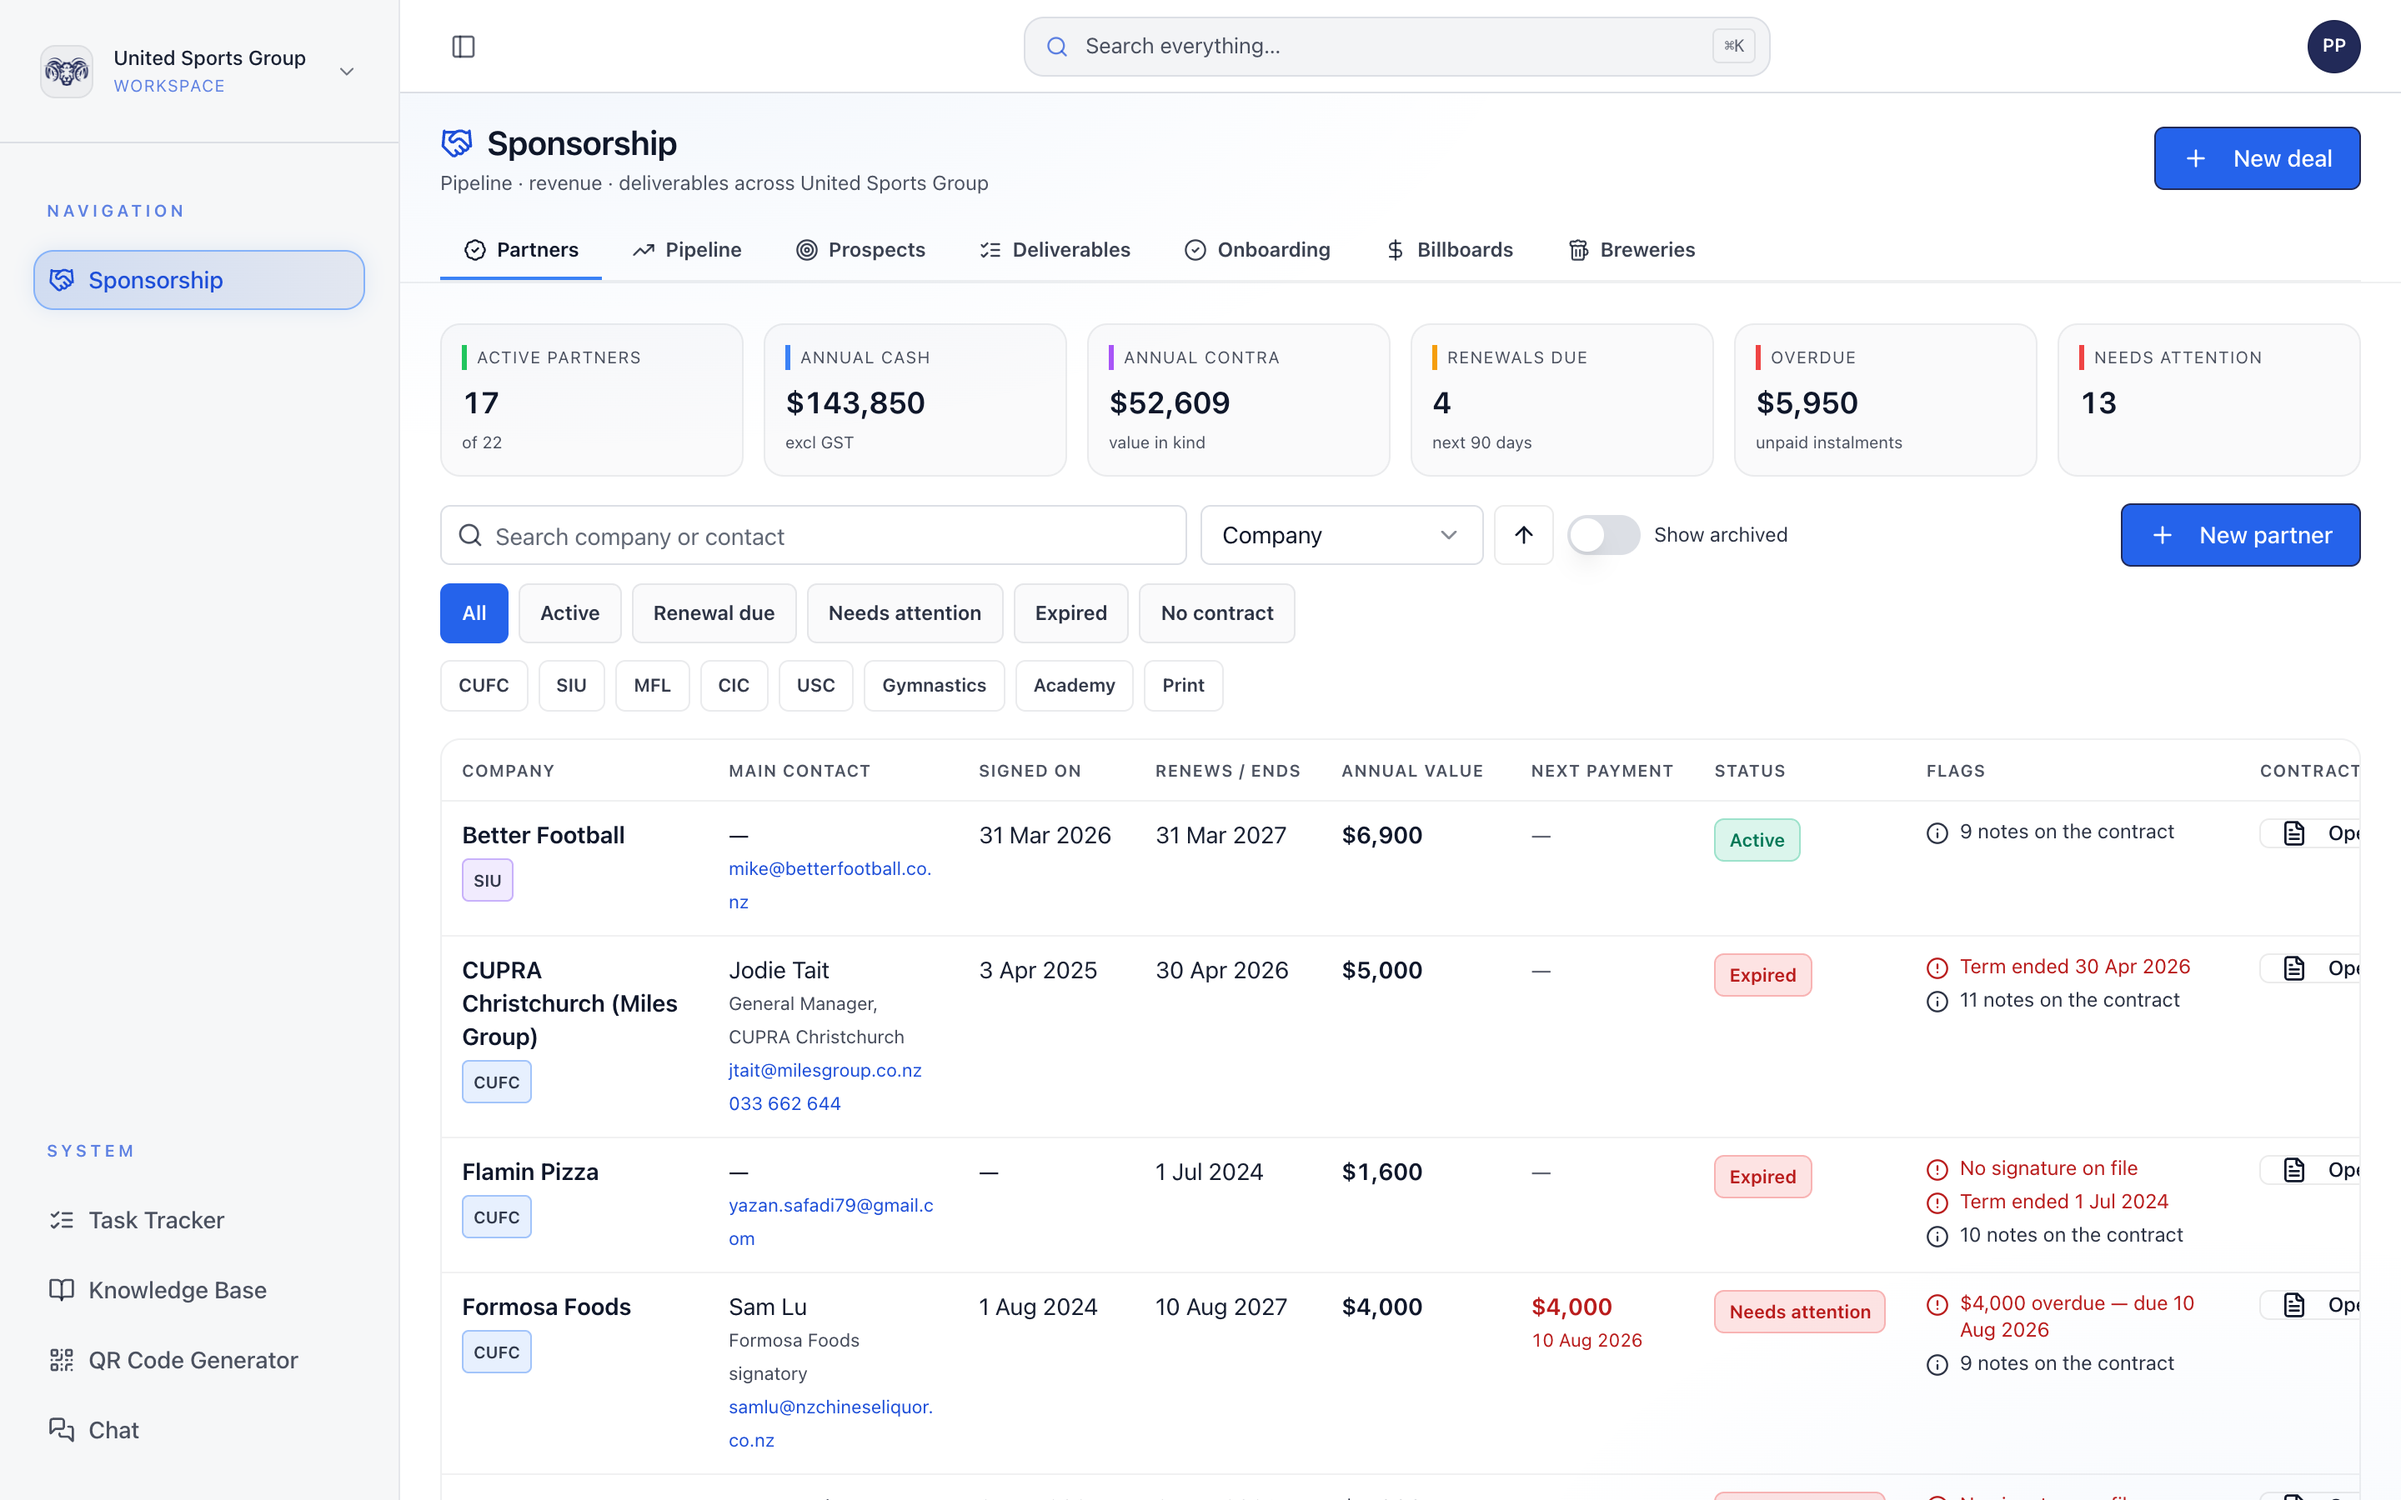
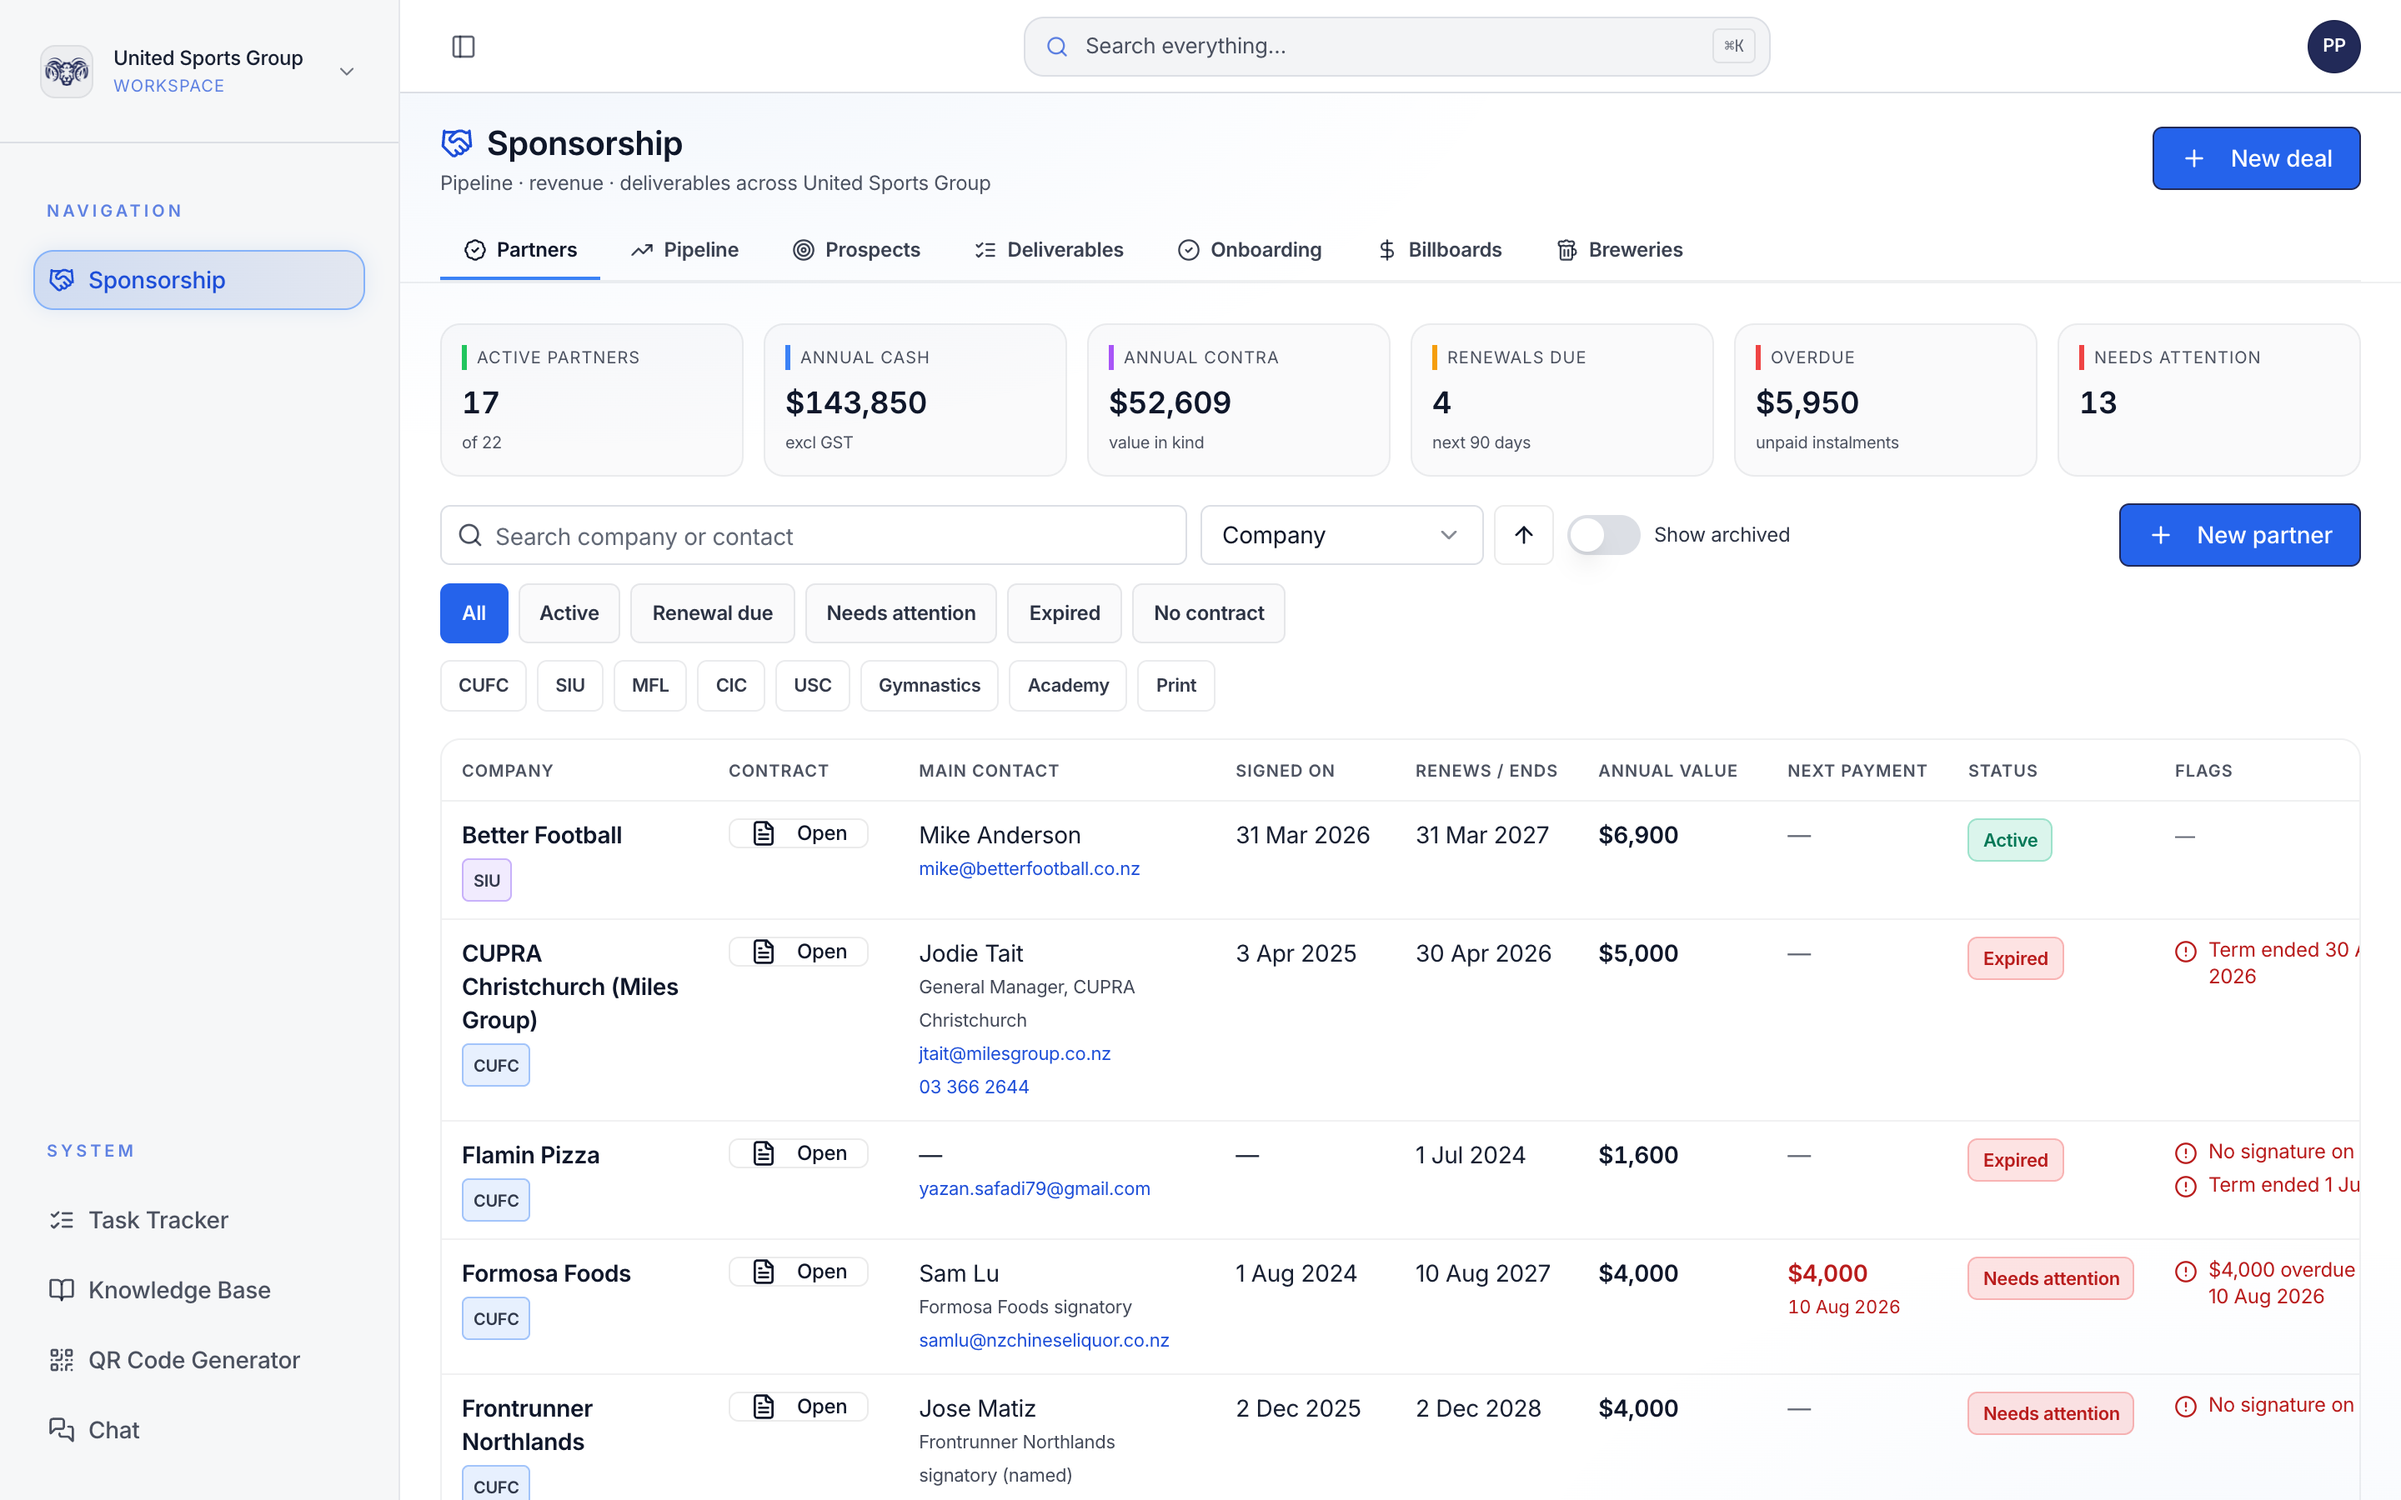
fix(partners): list fits a 1440 screen (next-payment column folded into the flags), 44px chips on phones

diff --git a/client/src/components/sponsorship/partners-view.tsx b/client/src/components/sponsorship/partners-view.tsx
@@ -273,7 +273,7 @@ export function PartnersView() {
         <div className="flex flex-wrap gap-1.5">
           {STATUS_FILTERS.map(f => (
             <button key={f.key} onClick={() => setStatusF(f.key)} data-testid={`partners-status-${f.key}`}
-              className={`text-xs font-semibold px-3 py-2 md:py-1.5 min-h-[36px] rounded-md border transition ${statusF === f.key ? "bg-blue-600 border-blue-600 text-white" : "border-white/10 text-white/60 hover:text-white bg-white/[0.02]"}`}>{f.label}</button>
+              className={`text-xs font-semibold px-3 py-2 md:py-1.5 min-h-[44px] md:min-h-[32px] rounded-md border transition ${statusF === f.key ? "bg-blue-600 border-blue-600 text-white" : "border-white/10 text-white/60 hover:text-white bg-white/[0.02]"}`}>{f.label}</button>
           ))}
         </div>
         <div className="flex flex-wrap gap-1.5">
@@ -281,7 +281,7 @@ export function PartnersView() {
             const on = brandF.includes(b.slug);
             return (
               <button key={b.slug} onClick={() => setBrandF(on ? brandF.filter(x => x !== b.slug) : [...brandF, b.slug])} data-testid={`partners-brand-${b.slug}`}
-                className="text-[11px] font-semibold px-2.5 py-1.5 rounded-md border transition"
+                className="text-[11px] font-semibold px-2.5 py-1.5 min-h-[44px] md:min-h-0 rounded-md border transition"
                 style={{ borderColor: on ? b.color : "hsl(var(--foreground) / 0.085)", background: on ? `${b.color}25` : "transparent", color: "hsl(var(--foreground) / 0.85)" }}>{b.label}</button>
             );
           })}
@@ -303,20 +303,20 @@ export function PartnersView() {
             <table className="w-full text-sm">
               <thead>
                 <tr className="text-left text-[10px] uppercase tracking-wider text-white/40 border-b border-white/[0.06]">
-                  {["Company", "Contract", "Main contact", "Signed on", "Renews / ends", "Annual value", "Next payment", "Status", "Flags"].map(h => <th key={h} className="px-3 py-2 font-semibold whitespace-nowrap">{h}</th>)}
+                  {["Company", "Contract", "Main contact", "Signed on", "Renews / ends", "Annual value", "Status", "Flags"].map(h => <th key={h} className="px-2.5 py-2 font-semibold whitespace-nowrap">{h}</th>)}
                 </tr>
               </thead>
               <tbody>
                 {rows.map(p => (
                   <tr key={p.id} onClick={() => open(p.id)} data-testid={`partner-row-${p.id}`}
                     className={`border-b border-white/[0.04] cursor-pointer hover:bg-white/[0.03] align-top ${p.archivedAt ? "opacity-50" : ""}`}>
-                    <td className="px-3 py-2.5 min-w-[160px] max-w-[220px]">
+                    <td className="px-2.5 py-2.5 min-w-[150px] max-w-[200px]">
                       <div className="font-semibold text-white break-words">{p.company}</div>
                       <BrandChips tags={p.brandTags} />
                     </td>
                     {/* Signed is king: the file sits beside the name, never off the right edge */}
-                    <td className="px-3 py-2.5 whitespace-nowrap"><OpenButton node={p.current?.node} /></td>
-                    <td className="px-3 py-2.5 min-w-[190px] max-w-[260px]">
+                    <td className="px-2.5 py-2.5 whitespace-nowrap"><OpenButton node={p.current?.node} /></td>
+                    <td className="px-2.5 py-2.5 min-w-[170px] max-w-[210px]">
                       <div className="text-white/90 break-words">{p.primaryContactName || "—"}</div>
                       {p.primaryContactRole && <div className="text-[11px] text-white/45 break-words">{p.primaryContactRole}</div>}
                       <div className="flex flex-wrap gap-x-2 text-[11px]" onClick={e => e.stopPropagation()}>
@@ -324,22 +324,14 @@ export function PartnersView() {
                         {p.primaryContactPhone && <a className="text-blue-400 hover:underline" href={`tel:${p.primaryContactPhone}`}>{p.primaryContactPhone}</a>}
                       </div>
                     </td>
-                    <td className="px-3 py-2.5 whitespace-nowrap text-white/80">{fmtDateNz(p.since)}</td>
-                    <td className="px-3 py-2.5 whitespace-nowrap text-white/80">{p.current?.openEnded ? "Ongoing" : fmtDateNz(p.renewalOn)}</td>
-                    <td className="px-3 py-2.5 whitespace-nowrap tabular-nums">
+                    <td className="px-2.5 py-2.5 whitespace-nowrap text-white/80">{fmtDateNz(p.since)}</td>
+                    <td className="px-2.5 py-2.5 whitespace-nowrap text-white/80">{p.current?.openEnded ? "Ongoing" : fmtDateNz(p.renewalOn)}</td>
+                    <td className="px-2.5 py-2.5 whitespace-nowrap tabular-nums">
                       <div className="text-white font-semibold">{fmtMoneyFull(p.cashPerYearCents)}</div>
                       {p.contraPerYearCents > 0 && <div className="text-[11px] text-white/50">+ {fmtMoneyFull(p.contraPerYearCents)} contra</div>}
                     </td>
-                    <td className="px-3 py-2.5 whitespace-nowrap tabular-nums">
-                      {p.nextPayment ? (
-                        <div className={PAY_TEXT[p.nextPayment.state]}>
-                          <div className="font-semibold">{fmtMoneyFull(p.nextPayment.amountCents)}</div>
-                          <div className="text-[11px]">{fmtDateNz(p.nextPayment.dueOn)}</div>
-                        </div>
-                      ) : <span className="text-white/30">—</span>}
-                    </td>
-                    <td className="px-3 py-2.5"><StatusPill status={p.status} /></td>
-                    <td className="px-3 py-2.5 min-w-[180px] max-w-[260px]"><FlagList flags={p.flags.filter(f => f.severity !== "grey")} max={2} /></td>
+                    <td className="px-2.5 py-2.5"><StatusPill status={p.status} /></td>
+                    <td className="px-2.5 py-2.5 min-w-[170px]"><FlagList flags={p.flags.filter(f => f.severity !== "grey")} max={2} /></td>
                   </tr>
                 ))}
               </tbody>

diff --git a/script/_verify-partners-browser.ts b/script/_verify-partners-browser.ts
@@ -66,7 +66,7 @@ async function main() {
       var small = [];
       var root = document.querySelector('[data-testid="partners-view"]') || document.querySelector('main');
       var els = root.querySelectorAll('button, a[href], [role="tab"], [role="combobox"]');
-      for (var i = 0; i < els.length; i++) { var r = els[i].getBoundingClientRect(); if (r.width > 0 && r.height > 0 && r.height < 44 && r.top < window.innerHeight) small.push((els[i].innerText || els[i].getAttribute('data-testid') || els[i].tagName).trim().slice(0,30) + ' ' + Math.round(r.height) + 'px'); }
+      for (var i = 0; i < els.length; i++) { var r = els[i].getBoundingClientRect(); var lab = els[i].closest('label'); var h = Math.max(r.height, lab ? lab.getBoundingClientRect().height : 0); if (r.width > 0 && r.height > 0 && h < 44 && r.top < window.innerHeight) small.push((els[i].innerText || els[i].getAttribute('data-testid') || els[i].tagName).trim().slice(0,30) + ' ' + Math.round(r.height) + 'px'); }
       var wide = [];
       var all = document.querySelectorAll('main *');
       for (var j = 0; j < all.length; j++) { var b = all[j].getBoundingClientRect(); if (b.right > WIDTH + 1 && !all[j].closest('.overflow-x-auto')) { wide.push(all[j].tagName + '.' + String(all[j].className).slice(0,40) + ' ' + Math.round(b.right)); if (wide.length > 4) break; } }
